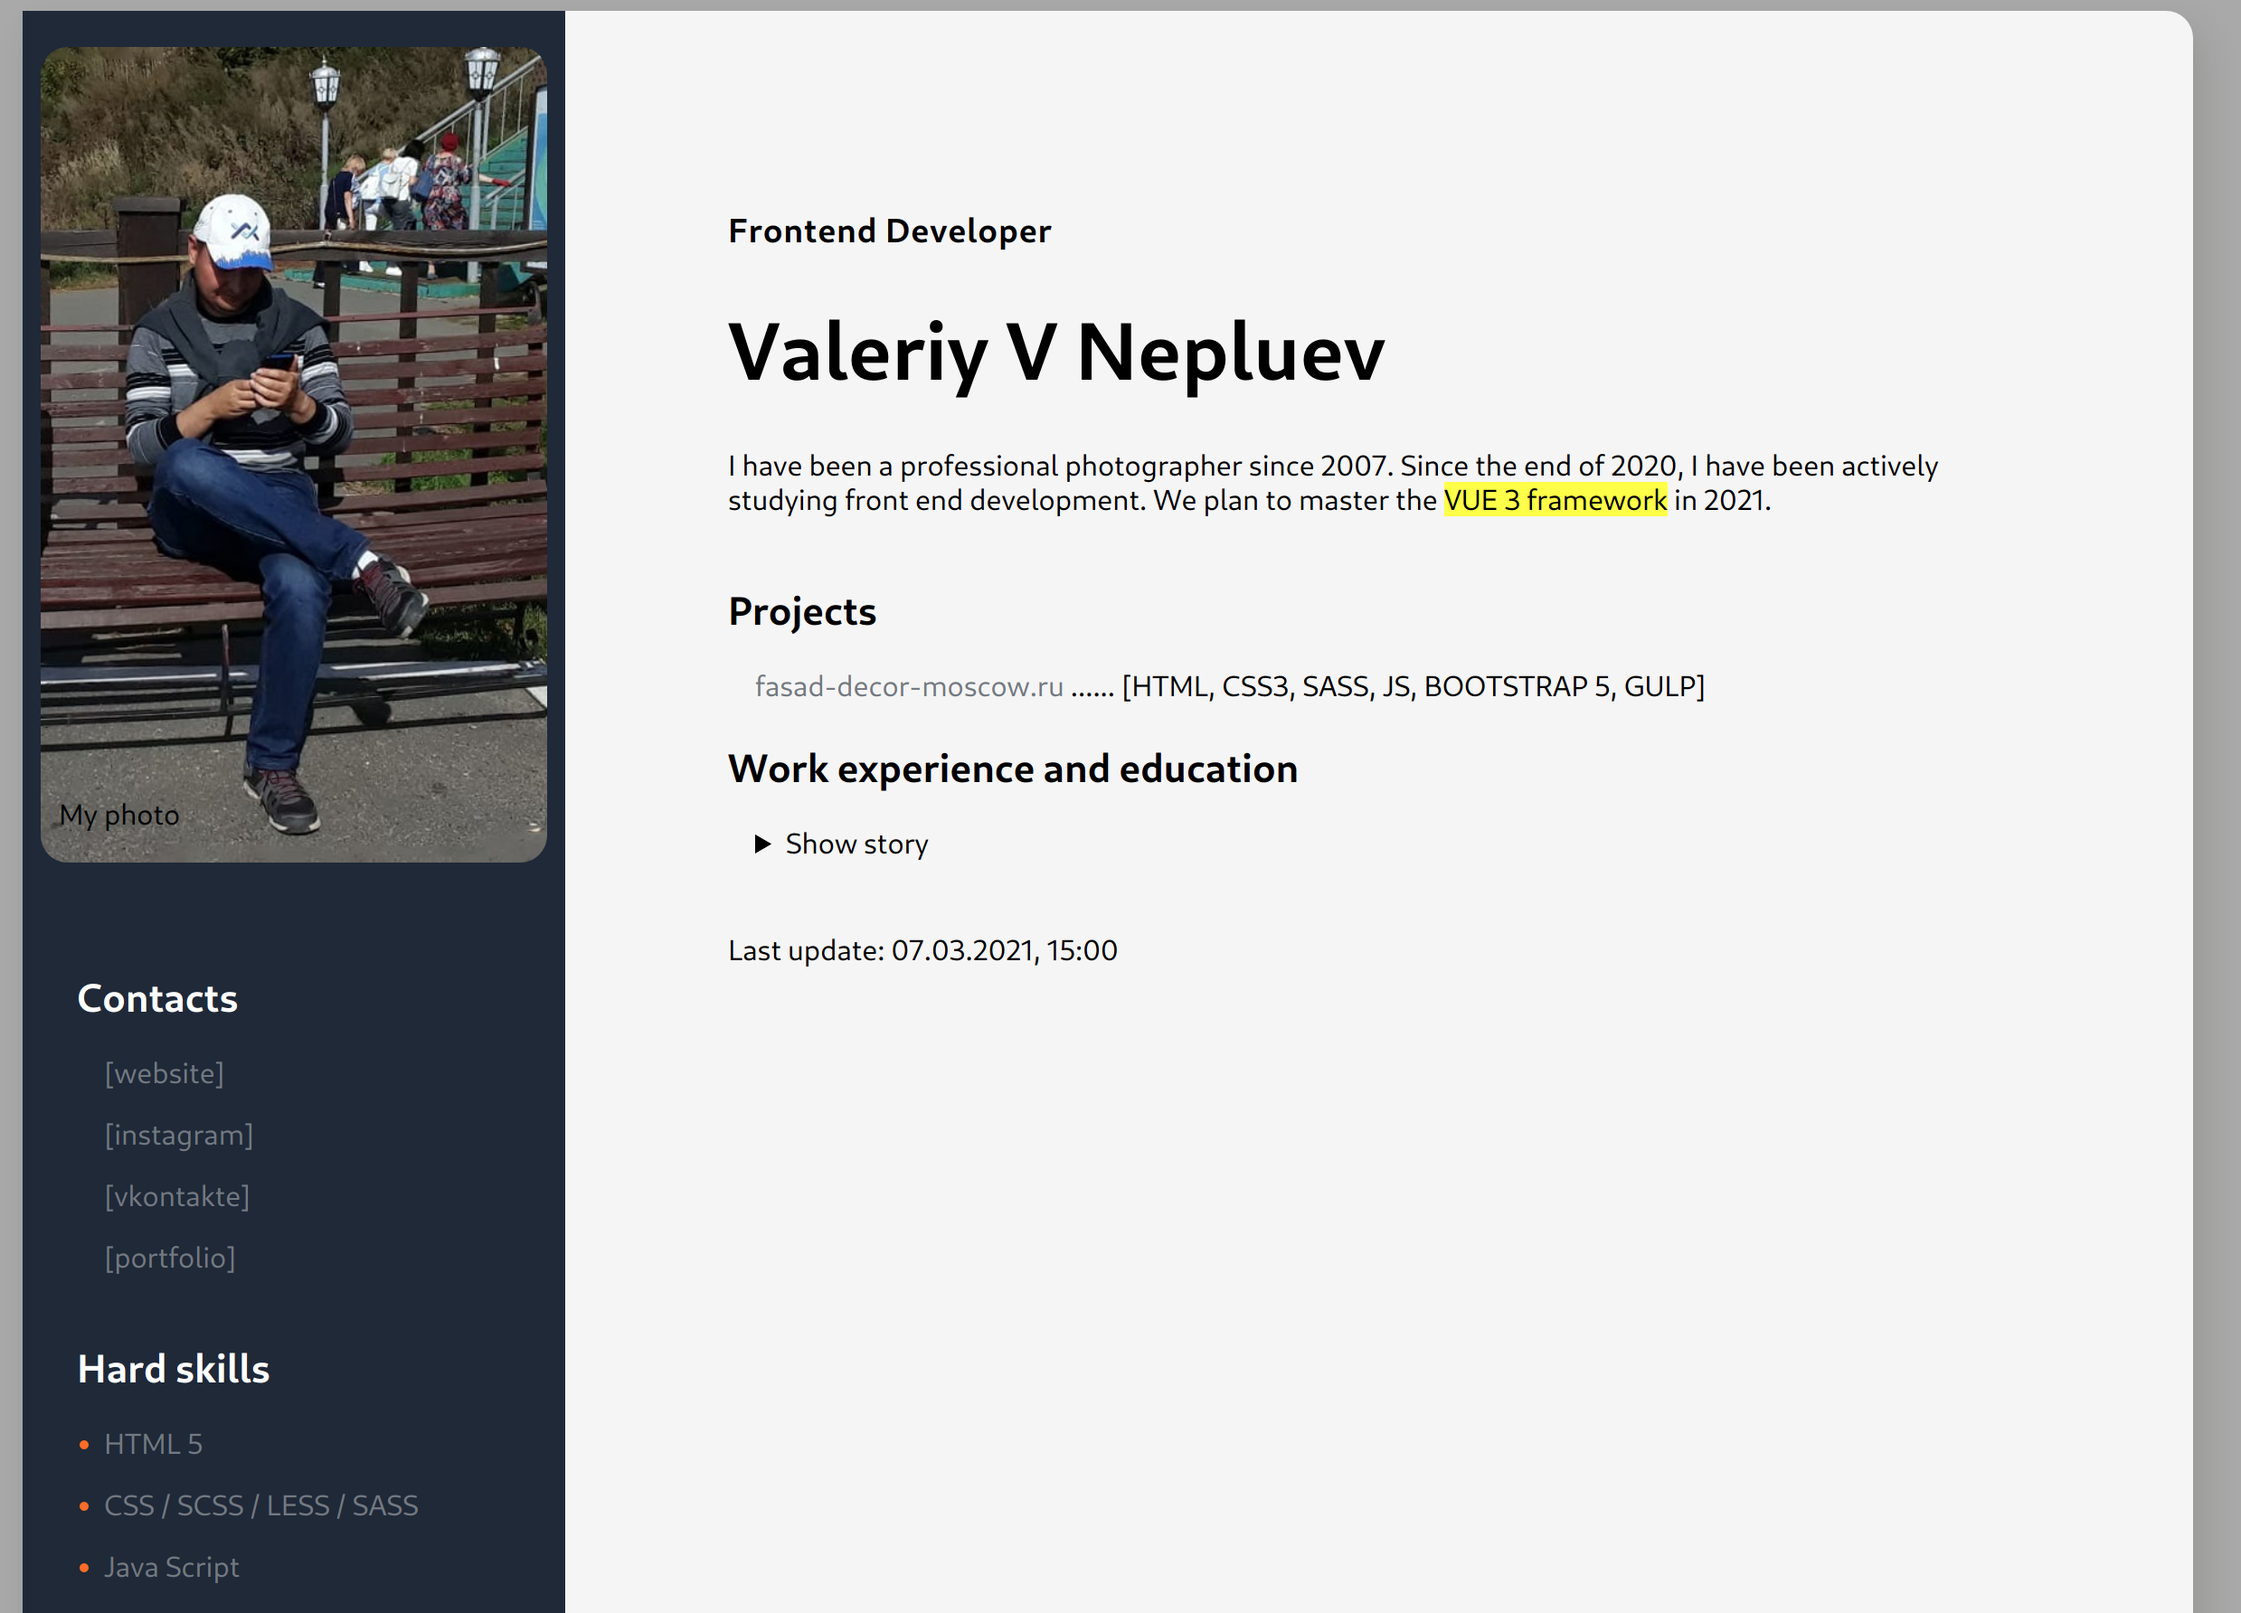
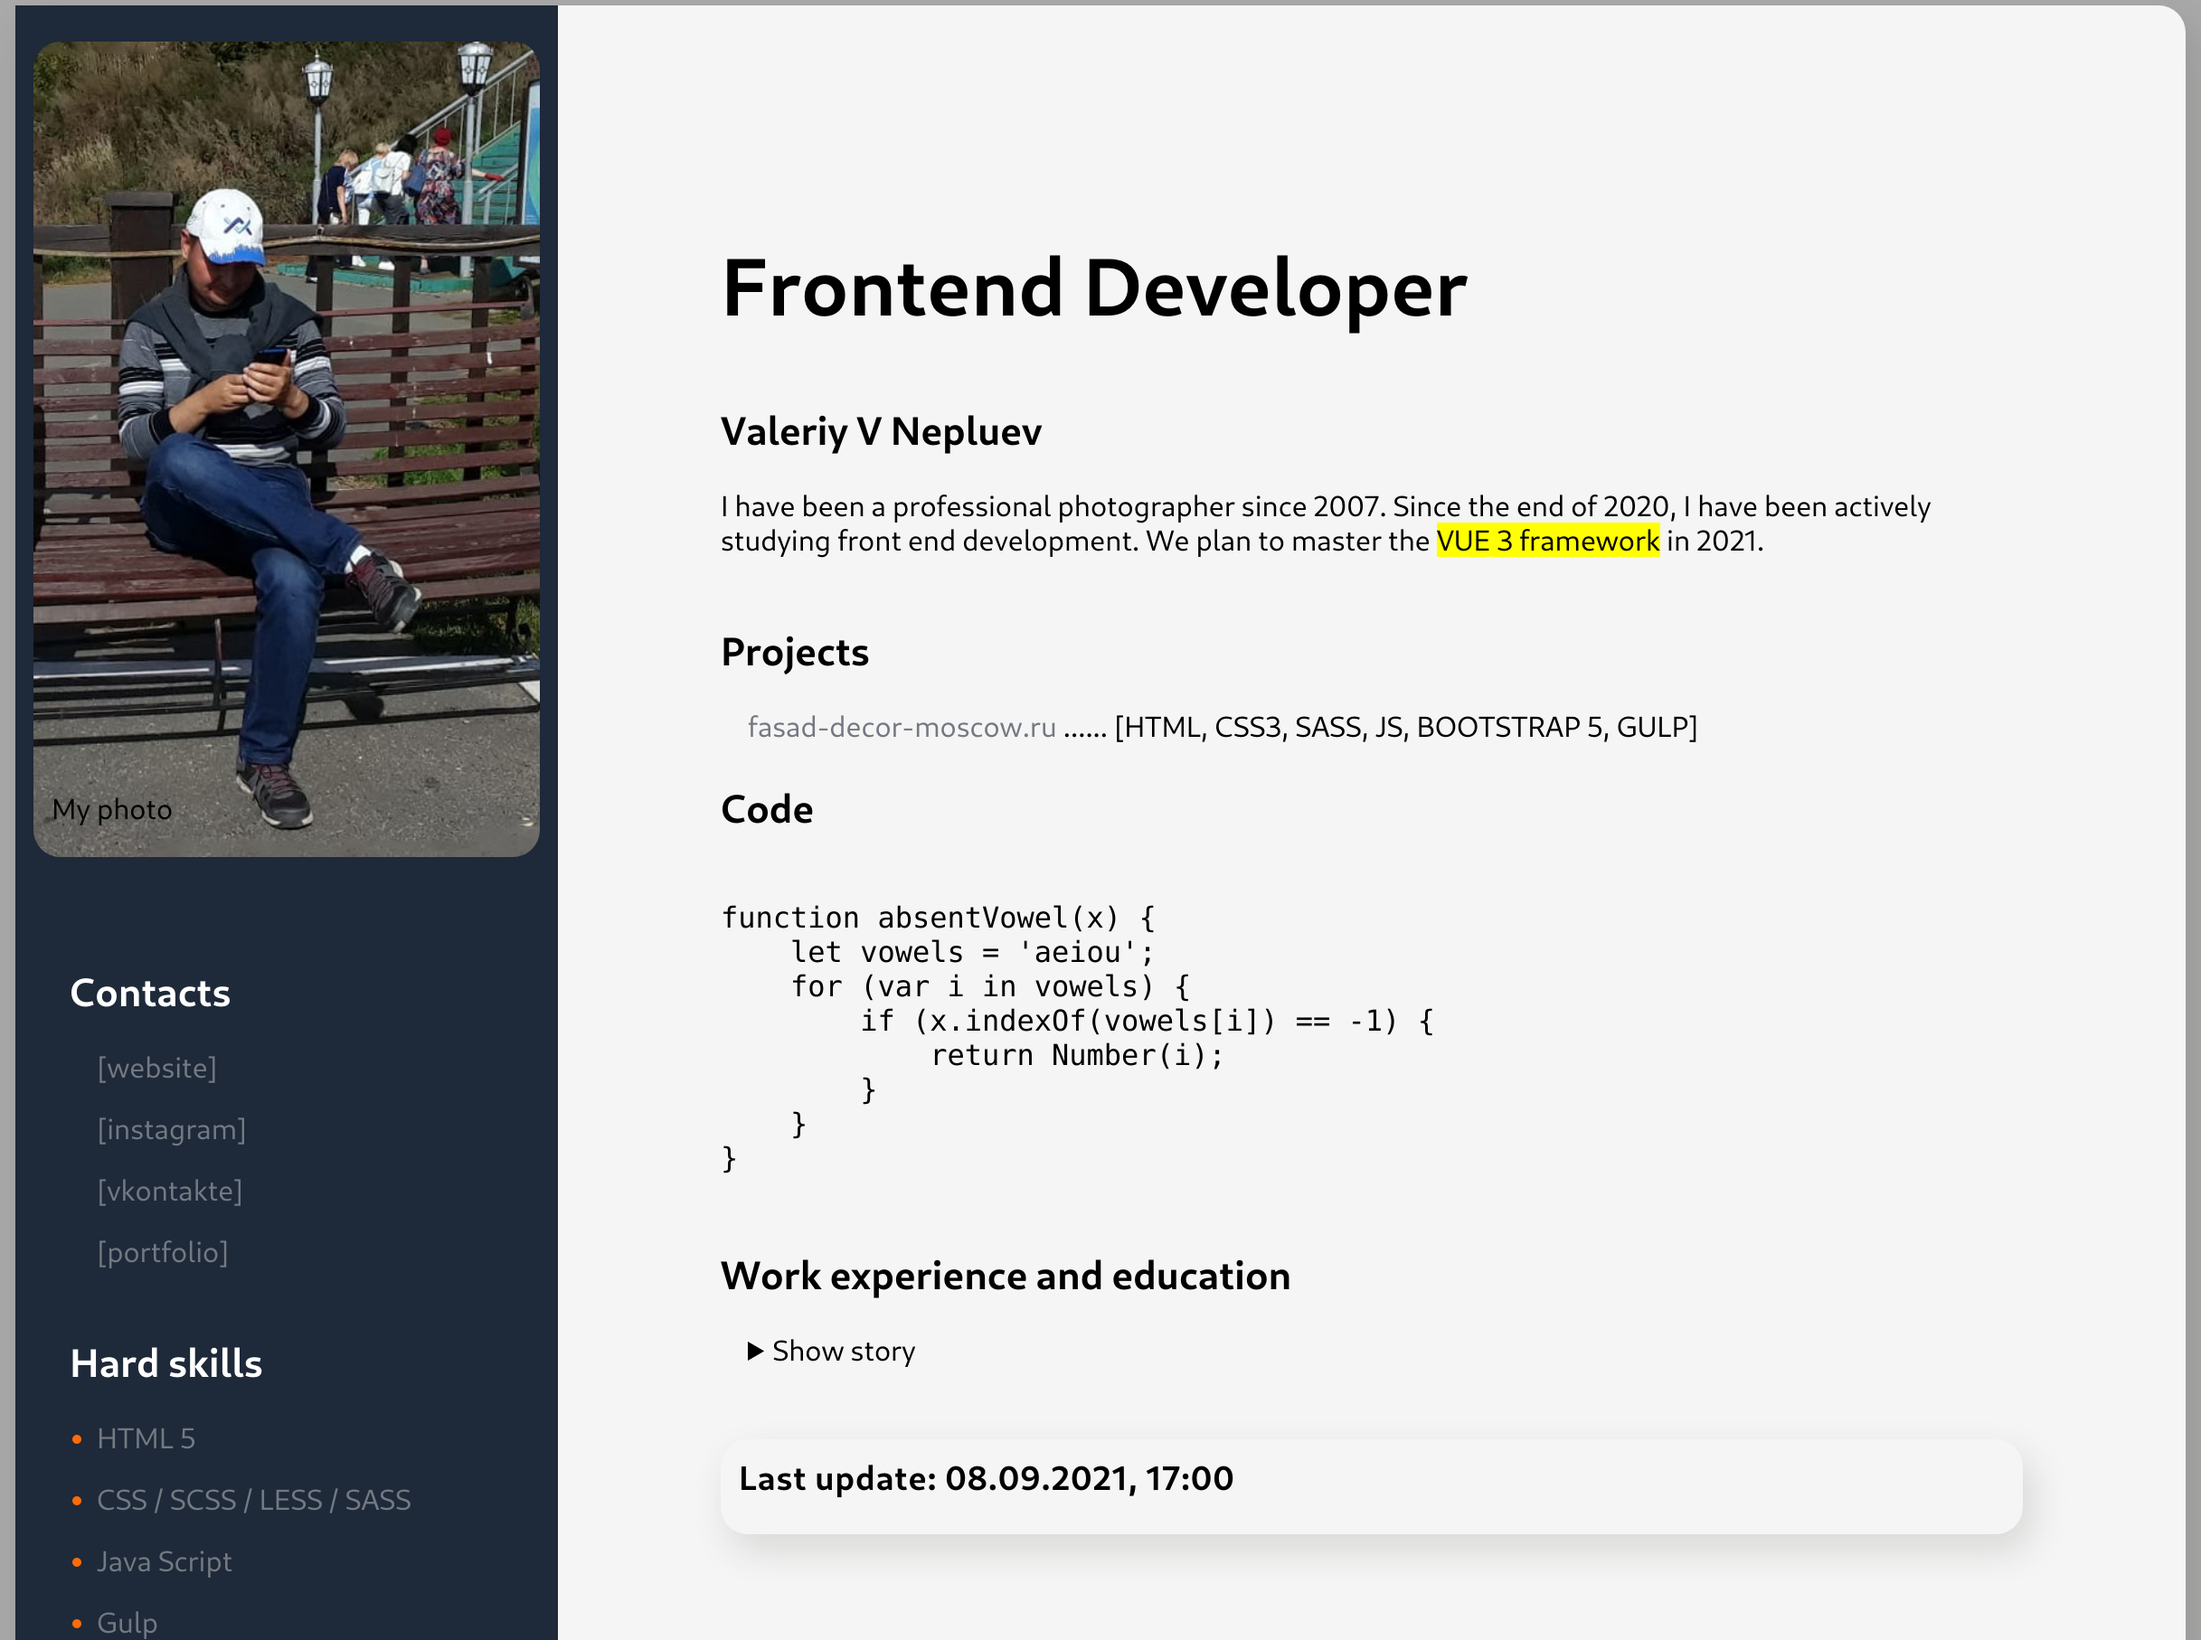
feat: start cv-html-css

diff --git a/index.html b/index.html
@@ -10,6 +10,34 @@
 </head>
 
 <body>
+    <!-- header -->
+    <header class="header">
+        <div class="header__container">
+            <a class="header__link" href="/">CV PAGE</a>
+
+            <!-- burger menu -->
+            <div class="menu_icon">
+                <span></span>
+            </div>
+            <!-- ./burger menu -->
+            <nav class="menu-body">
+                <ul class="menu">
+                    <li class="menu__items">
+                        <a class="menu__link" href="#works">Works</a>
+                    </li>
+                    <li class="menu__items">
+                        <a class="menu__link" href="#contacts">Contacts</a>
+                    </li>
+                    <li class="menu__items">
+                        <a class="menu__link" href="#skills">Skills</a>
+                    </li>
+                </ul>
+            </nav>
+        </div>
+        <!-- /.header__container -->
+    </header>
+    <!-- /.header -->
+
     <main class="wrapper">
         <aside class="left-content">
             <figure>
@@ -18,21 +46,19 @@
             </figure>
 
             <div class="left-content__container">
-                <h1 class="h2 white">Contacts</h1>
-                <nav>
-                    <ul class="list list--nomarkers">
-                        <li class="list__item"><a class="link" href="https://nepluev.com">[website]</a></li>
-                        <li class="list__item"><a class="link"
-                                href="https://www.instagram.com/travelstory4you">[instagram]</a>
-                        </li>
-                        <li class="list__item"><a class="link" href="https://vk.com/neplyuev">[vkontakte]</a></li>
-                        <li class="list__item"><a class="link" href="https://fasad-decor-moscow.ru">[portfolio]</a></li>
-                    </ul>
-                </nav>
+                <h2 id="contacts" class="h2 white">Contacts</h2>
+                <ul class="list list--nomarkers">
+                    <li class="list__item"><a class="link" href="https://nepluev.com">[website]</a></li>
+                    <li class="list__item"><a class="link"
+                            href="https://www.instagram.com/travelstory4you">[instagram]</a>
+                    </li>
+                    <li class="list__item"><a class="link" href="https://vk.com/neplyuev">[vkontakte]</a></li>
+                    <li class="list__item"><a class="link" href="https://fasad-decor-moscow.ru">[portfolio]</a></li>
+                </ul>
             </div>
 
             <div class="left-content__container">
-                <h2 class="h2 white">Hard skills</h2>
+                <h2 id="skills" class="h2 white">Hard skills</h2>
                 <ul class="list orange">
                     <li class="list__item"><span class="dark-white">HTML 5</span></li>
                     <li class="list__item"><span class="dark-white">CSS / SCSS / LESS / SASS</span></li>
@@ -53,8 +79,8 @@
         </aside>
         <!-- /.left-content -->
         <section class="right-content">
-            <h2 class="h3">Frontend Developer</h2>
-            <h2 class="h1">Valeriy V Nepluev</h2>
+            <h1 class="h1">Frontend Developer</h1>
+            <h2 class="h2">Valeriy V Nepluev</h2>
             <p class="description">I have been a professional photographer since 2007. Since the end of 2020, I
                 have
                 been actively studying front end
@@ -65,6 +91,18 @@
                 <li class="list__item"><a class="link" href="https://fasad-decor-moscow.ru/">fasad-decor-moscow.ru</a>
                     ...... [HTML, CSS3, SASS, JS, BOOTSTRAP 5, GULP]</li>
             </ul>
+
+            <h2 class="h2">Code</h2>
+            <pre><code id="works">
+function absentVowel(x) {
+    let vowels = 'aeiou';
+    for (var i in vowels) {
+        if (x.indexOf(vowels[i]) == -1) {
+            return Number(i);
+        }
+    }
+}
+            </code></pre>
 
             <h2 class="h2">Work experience and education</h2>
             <details class="details">

diff --git a/css/style.css b/css/style.css
@@ -8,6 +8,12 @@ html {
     font-family: -apple-system, BlinkMacSystemFont, 'Segoe UI', Roboto, Oxygen, Ubuntu, Cantarell, 'Open Sans', 'Helvetica Neue', sans-serif;
     font-size: 16px;
     background-color: darkgray;
+    scroll-behavior: smooth;
+}
+
+.header,
+.menu_icon {
+    display: none;
 }
 
 .wrapper {
@@ -147,4 +153,115 @@ a, a:visited {
     box-shadow: rgb(56 52 45 / 15%) 5px 9px 20px;
     background-color: whitesmoke;
     border-radius: 15px;
+}
+
+@media screen and (max-width: 1220px) {
+
+    .h1 {
+        font-size: 34px;
+        font-weight: 700;
+        line-height: 54px;
+        margin-bottom: 10px;
+    }
+
+    .header {
+        display: block;
+        position: fixed;
+        left: 0;
+        top: 0;
+        width: 100%;
+        z-index: 10;
+    }
+
+    .header__container {
+        display: flex;
+        padding: 10px;
+        margin: 10px;
+        max-width: 1200px;
+        margin-top: 10px;
+        box-shadow: rgb(56 52 45 / 15%) 5px 9px 20px;
+        background-color: whitesmoke;
+        border-radius: 15px;
+        justify-content: space-between;
+        align-items: center;
+    }
+
+    .menu {
+        display: flex;
+        align-items: center;
+    }
+
+    .menu__items {
+        padding: 10px;
+        list-style: none;
+    }
+
+    .wrapper {
+        margin: 10px;
+    }
+
+    .right-content {
+        padding: 70px 25px;
+    }
+
+    .footer {
+        margin: 10px;
+    }
+}
+
+@media screen and (max-width:767px) {
+    
+    .menu_icon {
+        display: block;
+        z-index: 5;
+        position: relative;
+        width: 30px;
+        height: 18px;
+        cursor: pointer;
+    }
+
+    .menu {
+        display: block;
+    }
+
+    .menu_icon span,
+    .menu_icon::before,
+    .menu_icon::after {
+        left: 0;
+        position: absolute;
+        width: 100%;
+        height: 10%;
+        background-color: #111111;
+        transition: all 0.5s easy 0s;
+    }
+
+    .menu_icon::before,
+    .menu_icon::after {
+        content: "";
+    }
+
+    .menu_icon::before {
+        top: 0;
+    }
+
+    .menu_icon::after {
+        bottom: 0;
+    }
+
+    .menu_icon span {
+        top: 50%;
+        transform: scale(1) translate(0, -50%);
+    }
+
+    .menu-body {
+        position: fixed;
+        left: 0;
+        top: 0;
+        width: 100%;
+        height: 100%;
+        background-color: rgba(0, 0, 0, 0.9);
+        padding: 100px 30px 30px 30px;
+        transition: left 0.3s ease 0s;
+    }
+
 }
